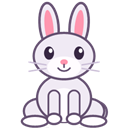
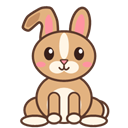
feat(pets): redesign the rabbit as a caramel bunny with one folded ear
Redraw the rabbit from scratch: caramel fur with a cream belly, a cream blaze from the forehead to the nose, puffy cheeks with blush and no whiskers; the right ear stands up and the left one folds over at the middle (the scenario props sit above the right side of the head). Lying, both ears lie back along the back; the side view hops in three poses and is drawn at 92% about the ground so the head stays inside the frame when a hop tilts it. The rabbit now defines the optional Hop state.

Climbing pets that walk by hopping were lifted up the wall by the hop offset, which pushed the head out of the frame; on a wall the ground is the screen edge, so lift them away from it instead (new optional Dx offset of New-HdCanvas and Save-Frame, 0 by default, so other pets are unchanged).

Update ShippedPetsTests (the rabbit can hop) and the README preview.

diff --git a/tests/DeskBuddy.Infrastructure.Tests/Pets/ShippedPetsTests.cs b/tests/DeskBuddy.Infrastructure.Tests/Pets/ShippedPetsTests.cs
@@ -148,7 +148,7 @@ public class ShippedPetsTests
     /// <param name="canHop">Whether the pet defines the optional hop animation.</param>
     [Theory]
     [InlineData("dog", true)]
-    [InlineData("rabbit", false)]
+    [InlineData("rabbit", true)]
     [InlineData("penguin", false)]
     [InlineData("ghost", false)]
     public async Task TemplatePet_Loads_WithEverydayAndScreenEdgeStates(string name, bool canHop)
